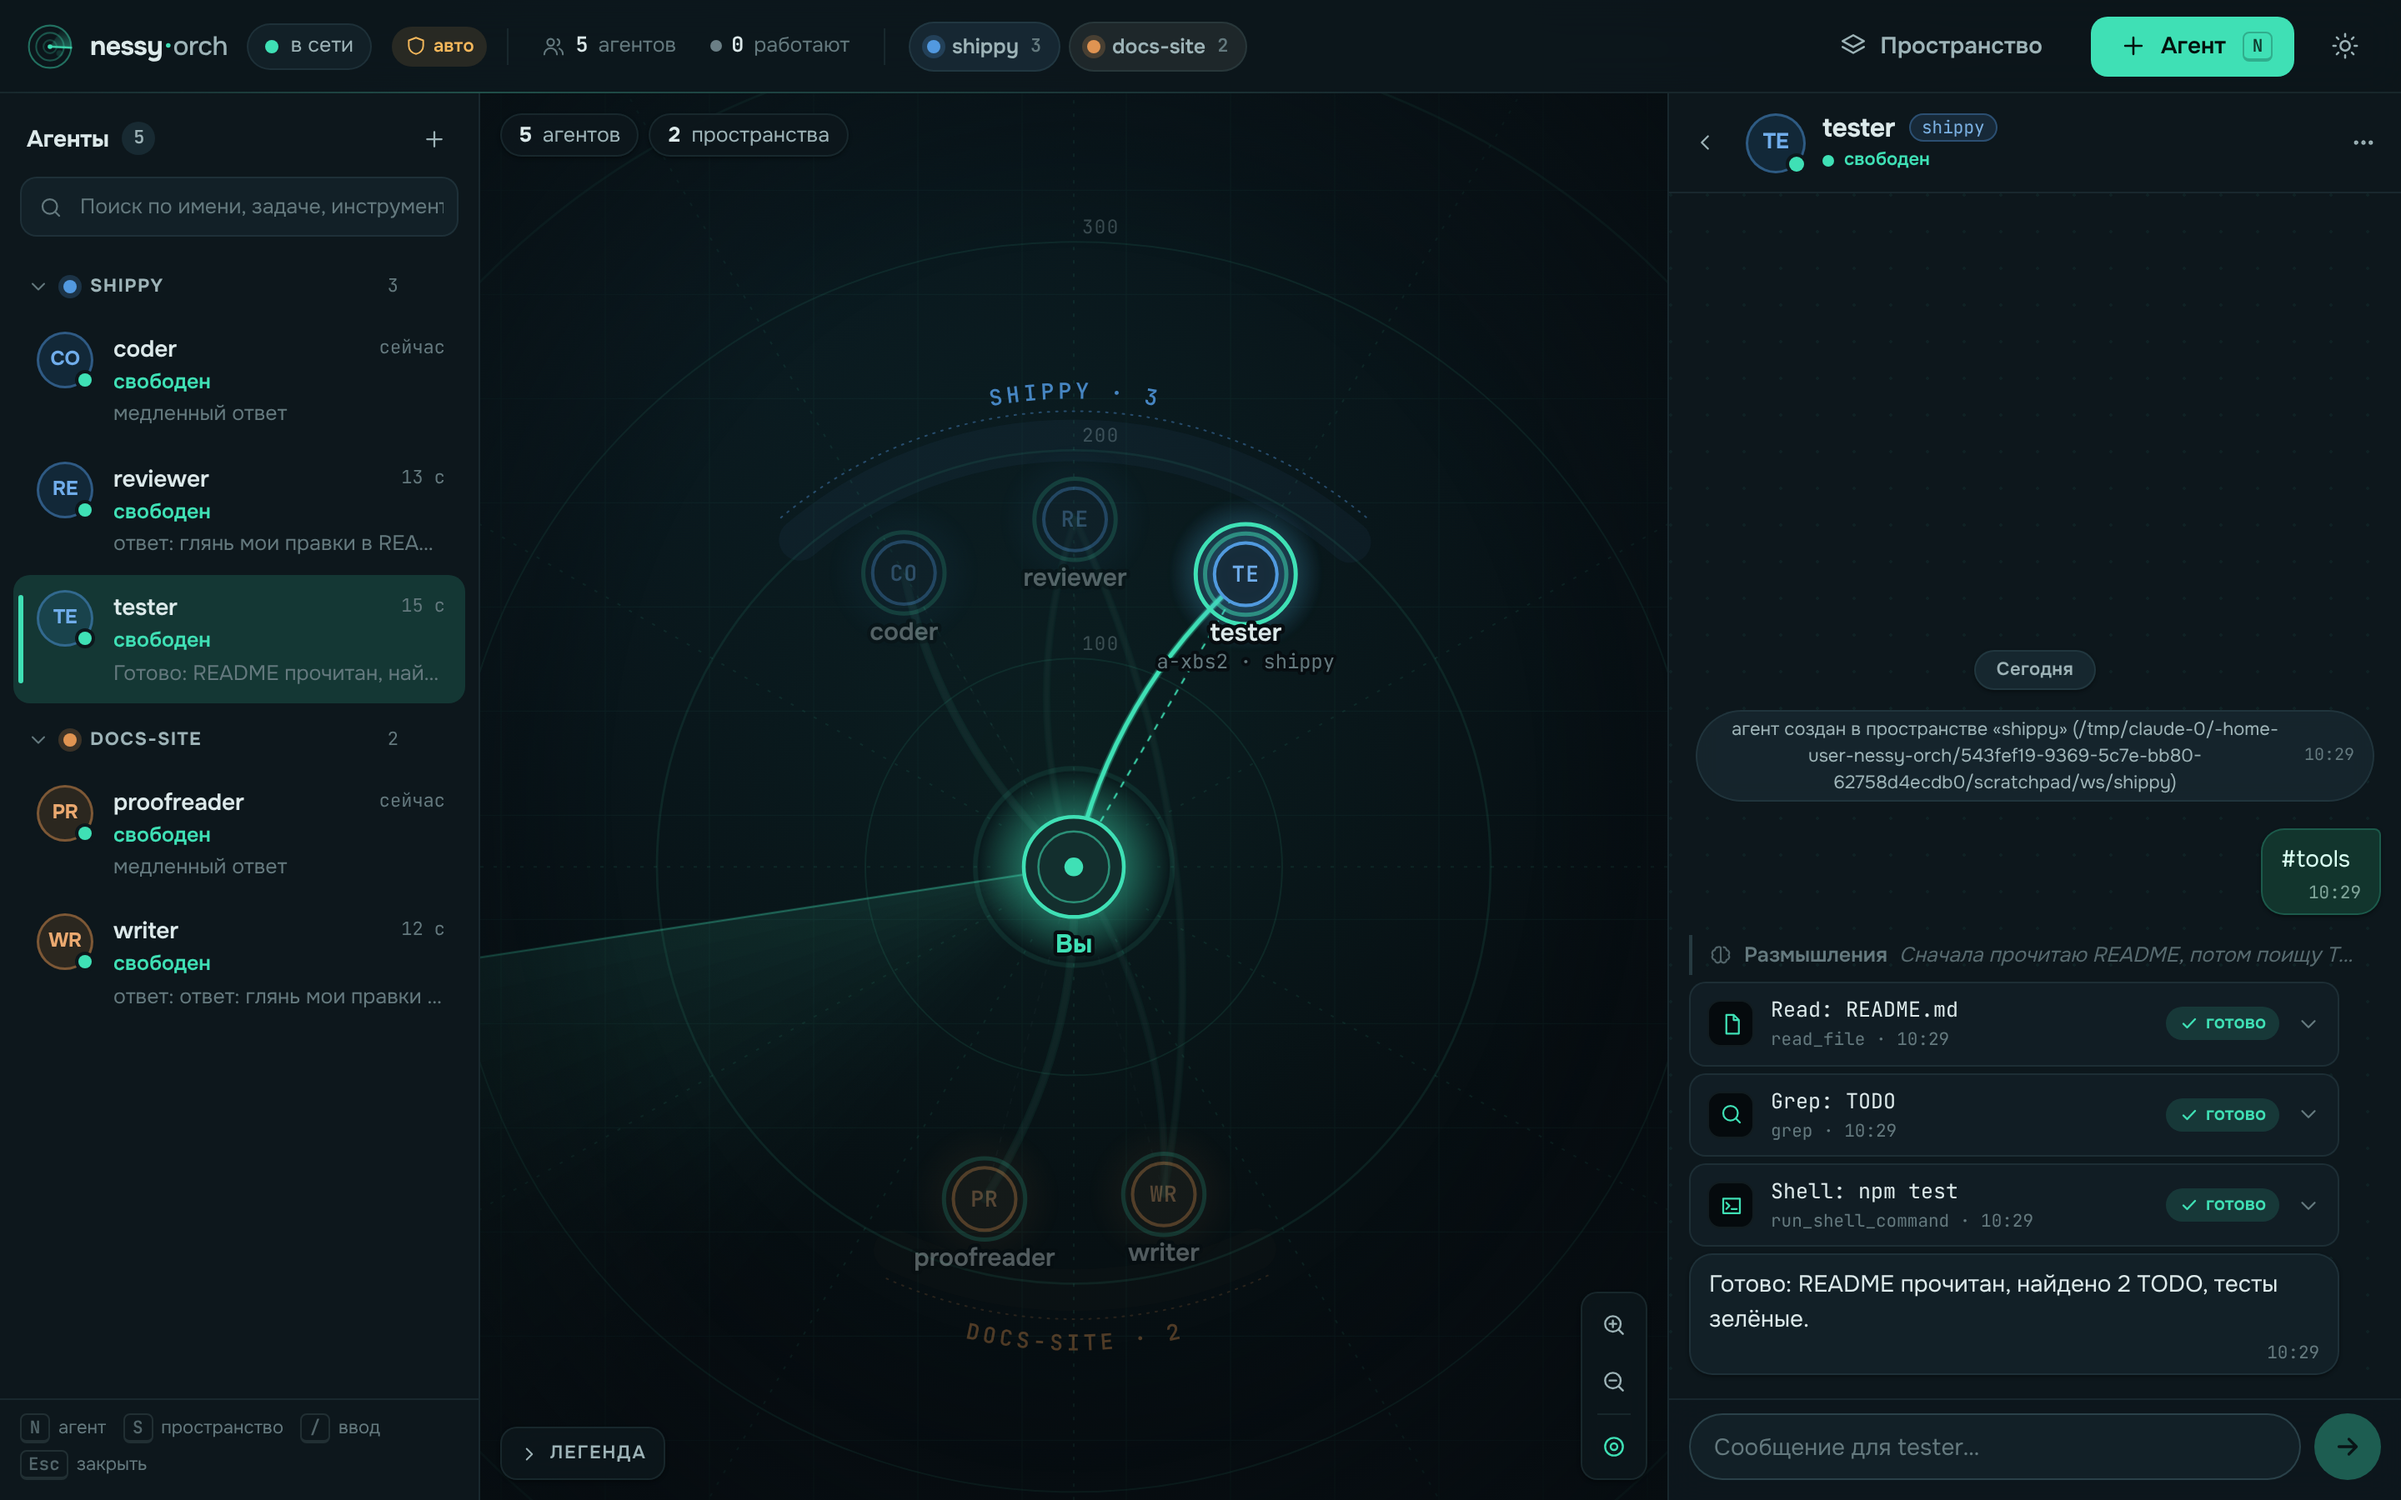
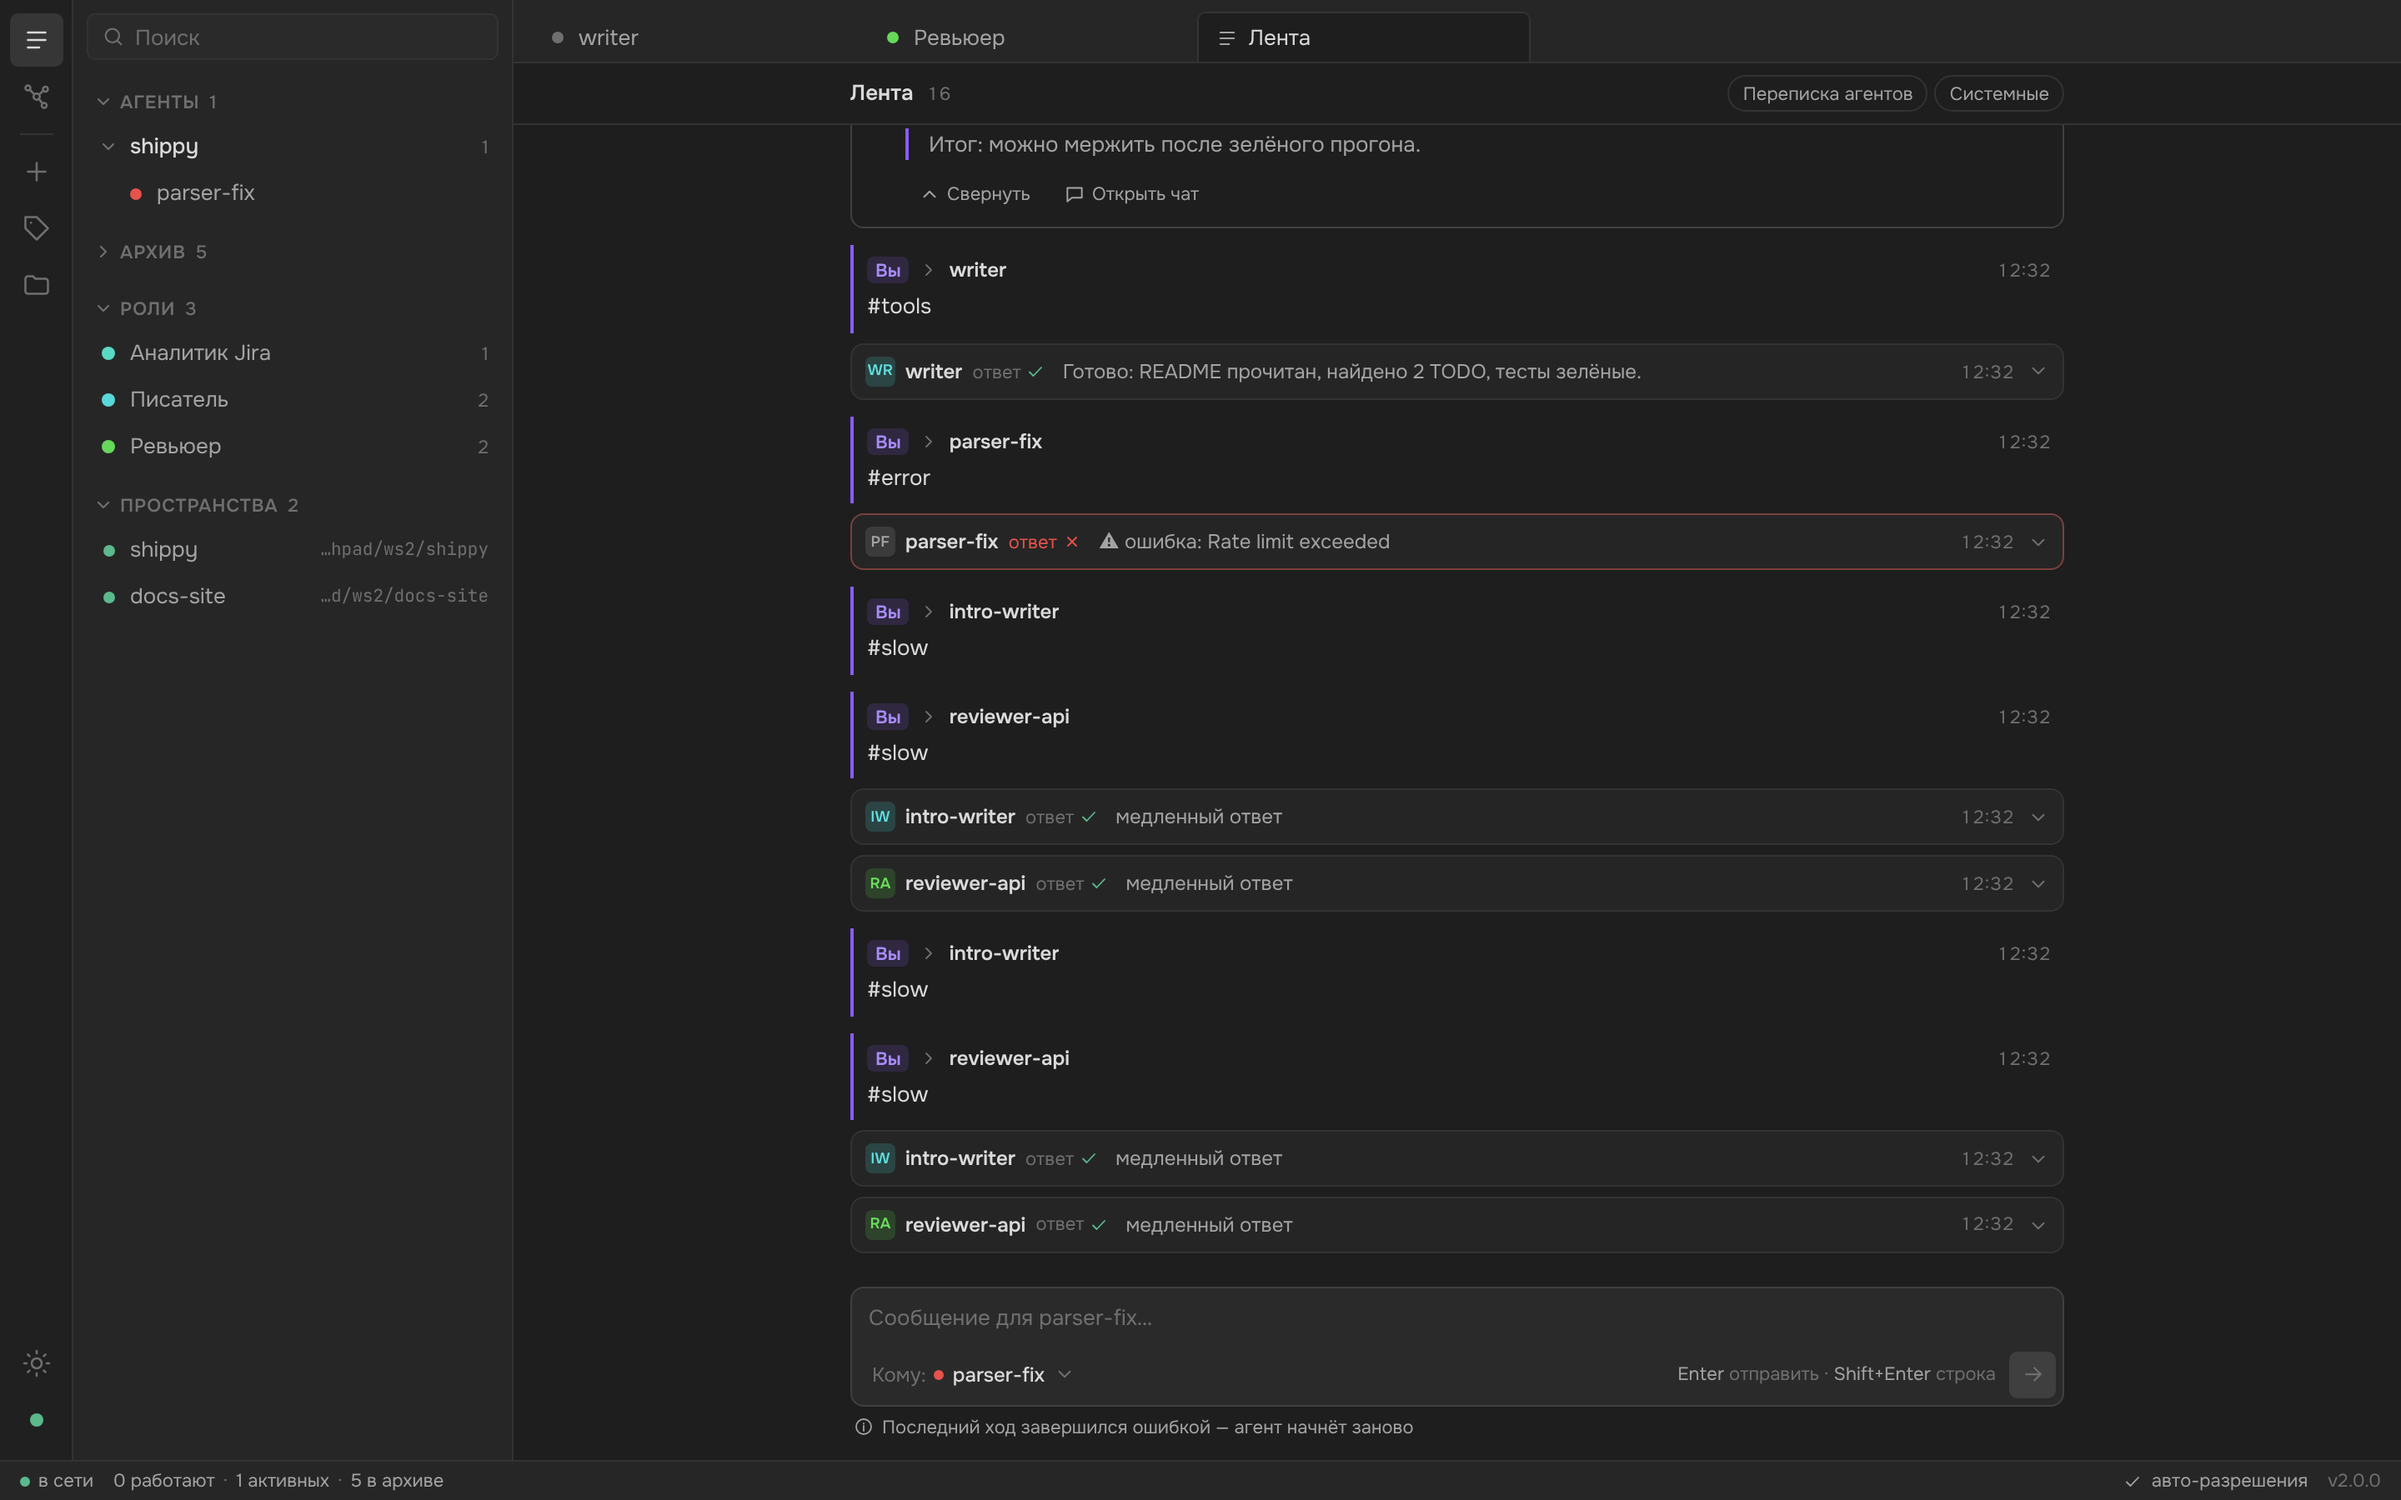
feat(ui): интерфейс в стиле Obsidian — дерево, вкладки, роли, граф; README и скриншоты
- полоса иконок, боковое дерево (агенты по пространствам, архив, роли, пространства), вкладки, строка статуса
- редактор ролей как заметка, запуск агента с ролью, диалоги в компактном стиле
- граф как в Obsidian вместо радара; на мобильных — панель с выезжающим деревом
- e2e переписаны под новый интерфейс

Claude-Session: https://claude.ai/code/session_0181iHrdy7NujeVwM1YcZ4FS

diff --git a/ui/src/app/App.tsx b/ui/src/app/App.tsx
@@ -9,7 +9,7 @@ import { AddSpaceDialog } from '@/features/add-space'
 import { AgentConfirmHost } from '@/features/agent-actions'
 import { SpawnAgentDialog } from '@/features/spawn-agent'
 import { NARROW, useMedia } from '@/shared/lib/useMedia'
-import { activeTab, closeTab, connect, toggleSidebar, useView } from '@/shared/model'
+import { activeTab, closeTab, connect, toggleSidebar, useStore, useView } from '@/shared/model'
 import { Icon, StatusDot, Toaster } from '@/shared/ui'
 import { MobileBar } from '@/widgets/mobile-bar'
 import { Ribbon } from '@/widgets/ribbon'
@@ -26,6 +26,7 @@ export function App() {
 	const tab = useView(v => activeTab(v))
 	const index = useView(v => v.active)
 	const meta = useTabMeta(tab)
+	const conn = useStore(st => st.conn)
 
 	useEffect(connect, [])
 	useHotkeys()
@@ -48,7 +49,7 @@ export function App() {
 	)
 
 	return (
-		<div className={`${s.app} ${narrow ? s.narrow : ''}`}>
+		<div className={`${s.app} ${narrow ? s.narrow : ''}`} data-conn={conn}>
 			{narrow ? (
 				<MobileBar title={meta.title} lead={lead} onCloseTab={meta.closable ? () => closeTab(index) : undefined} />
 			) : (

diff --git a/e2e/fixtures.ts b/e2e/fixtures.ts
@@ -89,7 +89,7 @@ export { expect }
 /** Открыть приложение и дождаться подключения к потоку. */
 export async function openApp(page: Page): Promise<void> {
 	await page.goto('/')
-	await expect(page.getByRole('status').filter({ hasText: 'в сети' })).toBeAttached()
+	await expect(page.locator('[data-conn="live"]')).toBeAttached()
 }
 
 /** Открыть приложение сразу с заданными вкладками (вкладки хранятся в localStorage). */
@@ -100,7 +100,7 @@ export async function openWithTabs(page: Page, tabs: object[], active = tabs.len
 		[tabs, active] as const,
 	)
 	await page.reload()
-	await expect(page.getByRole('status').filter({ hasText: 'в сети' })).toBeAttached()
+	await expect(page.locator('[data-conn="live"]')).toBeAttached()
 }
 
 /** Проверка: страница не прокручивается по горизонтали. */

diff --git a/e2e/spaces.spec.ts b/e2e/spaces.spec.ts
@@ -76,7 +76,7 @@ test.describe('тема', () => {
 		else await page.getByRole('toolbar', { name: 'Быстрые действия' }).getByRole('button', { name: label }).click()
 		await expect(html).toHaveAttribute('data-theme', after)
 		await page.reload()
-		await expect(page.getByRole('status').filter({ hasText: 'в сети' })).toBeAttached()
+		await expect(page.locator('[data-conn="live"]')).toBeAttached()
 		await expect(html).toHaveAttribute('data-theme', after)
 		await shot(page, info, `theme-${after}`)
 		await page.evaluate(() => localStorage.removeItem('nessy-orch:theme'))

diff --git a/e2e/app.spec.ts b/e2e/app.spec.ts
@@ -8,6 +8,7 @@ test.describe('загрузка и раскладка', () => {
 		await openApp(page)
 		if (narrow) await expect(page.getByRole('banner')).toContainText('Лента')
 		else {
+			await expect(page.getByRole('status').filter({ hasText: 'в сети' })).toBeVisible()
 			await expect(tab(page, 'Лента')).toHaveAttribute('aria-selected', 'true')
 			await expect(page.getByRole('toolbar', { name: 'Быстрые действия' })).toBeVisible()
 			await expect(page.getByRole('navigation', { name: 'Навигация' })).toBeVisible()
